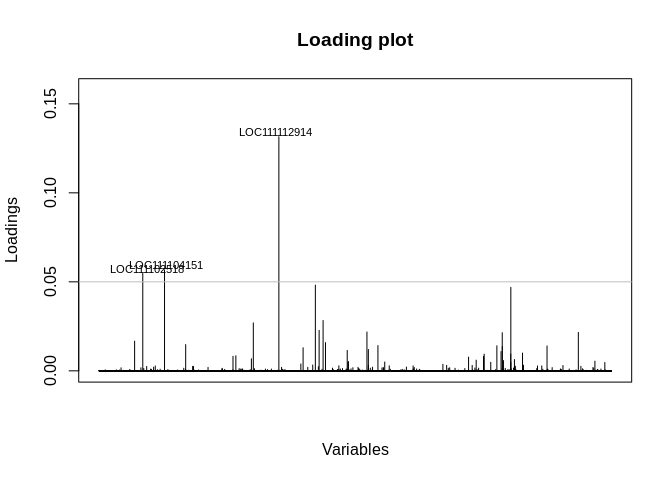
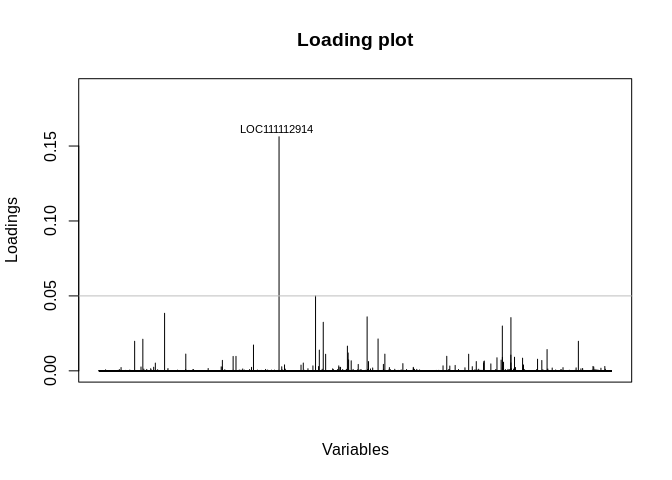
salmon scripts updated

diff --git a/markdown_files/Salmon_pipeline/02_salmon_multiVariateVisualization.md b/markdown_files/Salmon_pipeline/02_salmon_multiVariateVisualization.md
@@ -38,8 +38,8 @@ model$Pop <- as.factor(model$population)
 model$Lane <- as.factor(model$lane)
 model$SFV <-  interaction(model$Time,model$Treatment) # Creates single factor variable for combination of time and treatment
 
-gc <- readRDS("/home/downeyam/Github/2017OAExp_Oysters/input_files/RNA/salmon_pipeline/run20180512_gene_abundMatrix_.RData")
-gc <- gc[-c(1:205),] #removing some no LOC genes (most trna)
+gc <- readRDS("/home/downeyam/Github/2017OAExp_Oysters/input_files/RNA/salmon_pipeline/run20190610/geneMatrixAbundance_default.RData")
+#gc <- gc[-c(1:205),] #removing some no LOC genes (most trna)
 ```
 
 ## PERMANOVA (implements using adonis from vegan package)
@@ -61,14 +61,14 @@ gc <- gc[-c(1:205),] #removing some no LOC genes (most trna)
 ## 
 ## Terms added sequentially (first to last)
 ## 
-##                Df SumsOfSqs  MeanSqs F.Model      R2  Pr(>F)    
-## Treatment       1   0.03170 0.031699 1.45160 0.05749 0.02300 *  
-## Time            1   0.04832 0.048325 2.21297 0.08764 0.00020 ***
-## Pop             2   0.05215 0.026077 1.19415 0.09459 0.09878 .  
-## Lane            1   0.02768 0.027681 1.26761 0.05020 0.09738 .  
-## Treatment:Time  1   0.02029 0.020291 0.92921 0.03680 0.60968    
-## Residuals      17   0.37123 0.021837         0.67328            
-## Total          23   0.55138                  1.00000            
+##                Df SumsOfSqs  MeanSqs F.Model      R2    Pr(>F)    
+## Treatment       1   0.03153 0.031529 1.43924 0.05710 0.0333933 *  
+## Time            1   0.04806 0.048058 2.19378 0.08704 0.0003999 ***
+## Pop             2   0.05248 0.026240 1.19783 0.09505 0.0919816 .  
+## Lane            1   0.02773 0.027730 1.26584 0.05022 0.0853829 .  
+## Treatment:Time  1   0.01992 0.019918 0.90922 0.03607 0.6442711    
+## Residuals      17   0.37241 0.021906         0.67450              
+## Total          23   0.55213                  1.00000              
 ## ---
 ## Signif. codes:  0 '***' 0.001 '**' 0.01 '*' 0.05 '.' 0.1 ' ' 1
 ```
@@ -90,19 +90,19 @@ head(sum_pri$species)
 
 ```
 ##                        PC1           PC2          PC3           PC4
-## LOC111099029 -2.432954e-03  0.0000231773 2.667991e-03  2.121259e-03
-## LOC111099030 -5.100276e-01 -0.4343227395 8.016061e-01 -1.232862e+00
-## LOC111099031  1.177123e-04  0.0001933143 1.251508e-04  1.356039e-04
-## LOC111099032  5.744518e-05  0.0001395553 4.504468e-05  1.122106e-05
-## LOC111099033 -5.265188e-02 -0.0214166032 2.029884e-02 -5.044111e-02
-## LOC111099034 -1.775297e-03  0.0031607961 4.987734e-03  2.291729e-03
+## LOC111099029 -2.382980e-03 -1.306844e-05 2.682298e-03  2.178992e-03
+## LOC111099030 -5.160989e-01 -4.446035e-01 8.254272e-01 -1.272561e+00
+## LOC111099031  1.110952e-04  2.084359e-04 1.220995e-04  1.314414e-04
+## LOC111099032  5.672436e-05  1.452482e-04 4.228419e-05  1.091941e-05
+## LOC111099033 -5.246618e-02 -2.340208e-02 2.086646e-02 -5.228106e-02
+## LOC111099034 -1.716876e-03  3.243520e-03 4.940142e-03  2.549189e-03
 ##                        PC5           PC6
-## LOC111099029 -1.594811e-03  1.826297e-04
-## LOC111099030  1.827979e-01 -4.438335e-01
-## LOC111099031  1.059510e-04 -2.218093e-04
-## LOC111099032 -3.720566e-06 -3.173615e-05
-## LOC111099033 -2.462102e-02 -8.814008e-03
-## LOC111099034  2.640098e-03 -5.490798e-04
+## LOC111099029 -1.498076e-03  3.702898e-04
+## LOC111099030  2.110372e-01 -4.668311e-01
+## LOC111099031  1.025203e-04 -2.404532e-04
+## LOC111099032 -3.892466e-06 -2.459393e-05
+## LOC111099033 -2.464362e-02 -9.654350e-03
+## LOC111099034  2.450725e-03 -4.195273e-04
 ```
 
 ```r
@@ -150,13 +150,13 @@ cumsum(props)
 
 ```
 ##       PC1       PC2       PC3       PC4       PC5       PC6       PC7 
-## 0.5087059 0.6360367 0.7242154 0.7884668 0.8190354 0.8430982 0.8643221 
+## 0.5126111 0.6390950 0.7256155 0.7890958 0.8193021 0.8433486 0.8647353 
 ##       PC8       PC9      PC10      PC11      PC12      PC13      PC14 
-## 0.8829884 0.8971544 0.9107303 0.9227811 0.9343326 0.9450818 0.9542035 
+## 0.8832903 0.8980497 0.9116143 0.9235074 0.9348894 0.9454728 0.9544352 
 ##      PC15      PC16      PC17      PC18      PC19      PC20      PC21 
-## 0.9615578 0.9685951 0.9743923 0.9796035 0.9846414 0.9893100 0.9934340 
+## 0.9618096 0.9688719 0.9745486 0.9796556 0.9846408 0.9892511 0.9934741 
 ##      PC22      PC23      PC24 
-## 0.9973108 1.0000000 1.0000000
+## 0.9973135 1.0000000 1.0000000
 ```
 
 ```r
@@ -173,12 +173,12 @@ plot(cumsum(props)~c(1:24))
 early_time_counts <- gc[,model$Day == 9]
 early_time_meta <- model[model$Day == 9,]
 
-dapc_treatment_10<-dapc(t(early_time_counts),early_time_meta$treatment,n.pca=8,n.da=2)
+dapc_treatment_10<-dapc(t(early_time_counts),early_time_meta$treatment,n.pca=9,n.da=2)
 # PCs = 8
 # clusters = 1
-early_time_meta$discriminant_treatment_10 <- dapc_treatment_10$ind.coord
+early_time_meta$dt <- unlist(dapc_treatment_10$ind.coord[,1])
 
-ggplot(early_time_meta,aes(discriminant_treatment_10,fill=as.factor(treatment),colour=as.factor(treatment))) + 
+ggplot(early_time_meta,aes(dt,fill=as.factor(treatment),colour=as.factor(treatment))) + 
   geom_density(alpha=0.1) + xlim(-8,8) + 
   labs(title="Discriminant Function for Treatment on Day 9 (based on 8 PCs)",
        x="Discriminant function 1",
@@ -191,6 +191,61 @@ ggplot(early_time_meta,aes(discriminant_treatment_10,fill=as.factor(treatment),c
 
 ![](02_salmon_multiVariateVisualization_files/figure-html/unnamed-chunk-6-1.png)<!-- -->
 
+Looking at which genes are driving the patterns between the two treatments
+
+```r
+contrib_treatment <- loadingplot(dapc_treatment_10$var.contr, axis=1,thres=.05, lab.jitter=1)
+```
+
+![](02_salmon_multiVariateVisualization_files/figure-html/unnamed-chunk-7-1.png)<!-- -->
+
+Looking at the most important locus based on loading
+
+```r
+head(gc)
+```
+
+```
+##                   [,1]      [,2]      [,3]      [,4]      [,5]      [,6]
+## LOC111099029  0.054836  0.767837  0.337342  1.408132  0.082930  1.299018
+## LOC111099030  6.695107 25.213291 34.216294  3.212135 10.691542  0.933617
+## LOC111099031  0.000000  0.000000  0.000000  0.088730  0.000000  0.000000
+## LOC111099032  0.000000  0.000000  0.000000  0.000000  0.000000  0.000000
+## LOC111099033 17.536455 22.374482 27.361933 17.316606  8.783201 26.868817
+## LOC111099034  1.764882  2.765377  3.294622  6.811804  3.376154  1.639565
+##                    [,7]      [,8]      [,9]     [,10]     [,11]     [,12]
+## LOC111099029   0.653362  0.873550  0.121886  0.094046  0.157326  0.113211
+## LOC111099030 524.413133  9.721098 19.706508 18.265789 11.159106 48.140014
+## LOC111099031   0.109216  0.000000  0.000000  0.000000  0.099033  0.000000
+## LOC111099032   0.000000  0.000000  0.000000  0.000000  0.000000  0.000000
+## LOC111099033  31.945709 15.886561 18.421057 29.181587 16.585032 23.137739
+## LOC111099034   0.887531  2.700555  2.937747  1.851594  4.585605  2.187277
+##                  [,13]     [,14]     [,15]     [,16]     [,17]     [,18]
+## LOC111099029  0.805138  0.726133  2.732844  0.686248  1.771646  1.388055
+## LOC111099030 19.564730  0.000000 16.614260 15.731977  8.408947 49.265429
+## LOC111099031  0.000000  0.111825  0.000000  0.096927  0.000000  0.000000
+## LOC111099032  0.000000  0.000000  0.000000  0.000000  0.000000  0.071519
+## LOC111099033 20.205813 22.588256 43.048526 26.605817 55.988860 63.276103
+## LOC111099034  2.335114  1.709982  1.347847  3.182730  2.436358  1.336849
+##                  [,19]     [,20]      [,21]     [,22]     [,23]     [,24]
+## LOC111099029  0.676043  1.090882   0.926567  1.137421  0.822404  0.447358
+## LOC111099030 52.788268  0.812123 481.744177 19.835379 33.477649 23.852491
+## LOC111099031  0.000000  0.119368   0.000000  0.110053  0.000000  0.000000
+## LOC111099032  0.000000  0.000000   0.000000  0.080701  0.000000  0.000000
+## LOC111099033 13.998843 15.709347  39.437150 10.269010 16.232932 21.846089
+## LOC111099034  1.107921  1.748140   3.739886  3.460239  2.839911  2.782818
+```
+
+```r
+gc_majorLoading <- gc[row.names(gc) == "LOC111102518",]
+majorLoading_counts <- as.data.frame(cbind(Trt=model$Treatment,Time=model$Time,SFV=model$SFV,Pop=model$Pop,(LOC111104151=gc_majorLoading)))
+
+ggplot(majorLoading_counts,aes(x=as.factor(SFV),y=log10(LOC111104151))) + geom_boxplot() + 
+  labs(x= c("SFV"))
+```
+
+![](02_salmon_multiVariateVisualization_files/figure-html/unnamed-chunk-8-1.png)<!-- -->
+
 **Mapping Day 80 samples**  
 
 ```r
@@ -198,11 +253,11 @@ late_time_counts <- gc[,model$Day == 80]
 late_time_meta <- model[model$Day == 80,]
 
 predict_values <- predict.dapc(dapc_treatment_10,t(late_time_counts))
-late_time_meta$discriminant_treatment_10 <-predict_values$ind.scores
+late_time_meta$dt <-unlist(predict_values$ind.scores[,1])
 
 whole_meta<- rbind(early_time_meta,late_time_meta)
 
-ggplot(whole_meta,aes(discriminant_treatment_10,fill=as.factor(interaction(Day,treatment)),colour=as.factor(interaction(Day,treatment)))) + 
+ggplot(whole_meta,aes(dt,fill=as.factor(interaction(Day,treatment)),colour=as.factor(interaction(Day,treatment)))) + 
   geom_density(alpha=0.1) + xlim(-8,8) + 
   labs(title="Discriminant Function for Treatment on Day 9 - Mapped with Day 80 Samples",
        x="Discriminant function 1",
@@ -213,7 +268,7 @@ ggplot(whole_meta,aes(discriminant_treatment_10,fill=as.factor(interaction(Day,t
   scale_fill_manual(values=c("deepskyblue2","blue4","firebrick1","darkred"))
 ```
 
-![](02_salmon_multiVariateVisualization_files/figure-html/unnamed-chunk-7-1.png)<!-- -->
+![](02_salmon_multiVariateVisualization_files/figure-html/unnamed-chunk-9-1.png)<!-- -->
 
 ### DAPC based on combined time*treatment factor  
   
@@ -237,4 +292,12 @@ ggplot(output,aes(x=LD1,y=LD2,fill=as.factor(interaction(Trt,Time)),colour=as.fa
   scale_fill_manual(values=c("deepskyblue2","blue4","firebrick1","darkred"))
 ```
 
-![](02_salmon_multiVariateVisualization_files/figure-html/unnamed-chunk-8-1.png)<!-- -->
+![](02_salmon_multiVariateVisualization_files/figure-html/unnamed-chunk-10-1.png)<!-- -->
+
+Looking at contribution of individual genes
+
+```r
+contrib_SFV <- loadingplot(dapc_SFV_10$var.contr, axis=2,thres=.07, lab.jitter=1)
+```
+
+![](02_salmon_multiVariateVisualization_files/figure-html/unnamed-chunk-11-1.png)<!-- -->
